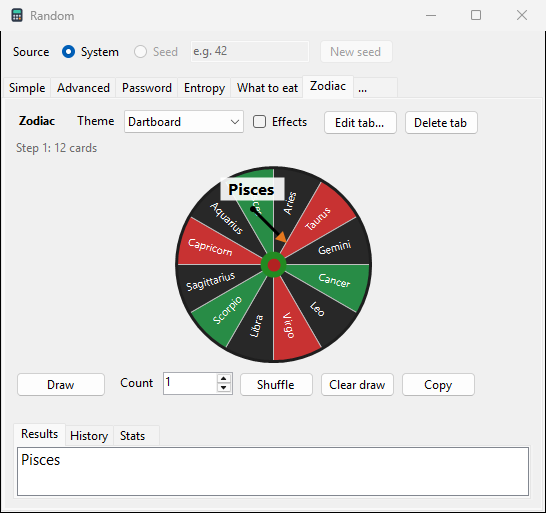
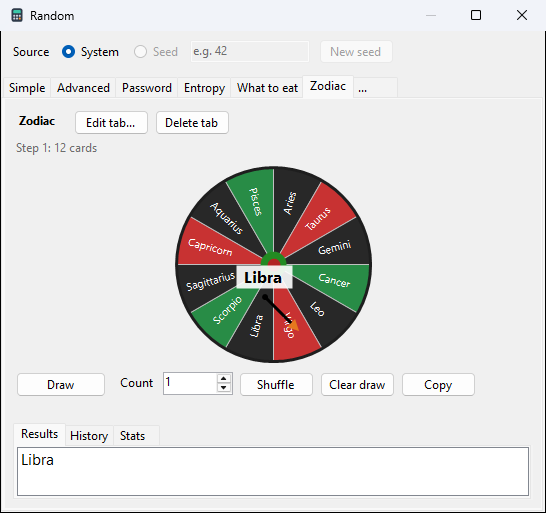
ui: draw theme and Effects in Edit tab; List effect; new tabs on Slot
Owner 2026-11-14: the theme is set once, so it moves from the tab's
top row to the Edit tab dialog. New tabs start on Slot machine, and
List gets an effect too: lines roll in Results, slowing down, before
the drawn one (a click skips). Help pictures redone without the
Minimize button. Verified: 397 UI tests pass, pictures checked.

diff --git a/ui/SoftCalc/UI/DrawPage.cs b/ui/SoftCalc/UI/DrawPage.cs
@@ -1,10 +1,10 @@
 // DrawPage.cs - A draw tab of the Random window (design/random_plan.md R7)
 //
 // Owner 2026-11-14: Draw gives a line, a card from each step; Count
-// draws several lines. Theme: List, Slot machine or Dartboard, with
-// Effects while drawing (one line at a time). Shuffle puts the drawn
-// cards back in the No repeat piles. Clear draw empties the results and
-// History, not Stats; Clear stats empties the counts. Results, History
+// draws several lines. The theme (List, Slot machine or Dartboard) and
+// Effects are set in Edit tab; effects play when drawing one line.
+// Shuffle puts the drawn cards back in the No repeat piles. Clear draw
+// empties the results; Clear history and Clear stats ask first. Results, History
 // (with the time) and Stats are on tabs below. Draws come from the
 // Source row: System, or Seed through the window's engine.
 
@@ -23,14 +23,12 @@ internal sealed class DrawPage : TabPage
 	private readonly Picker _picker;
 	private readonly Action _save;
 	private readonly Label _title = new() { AutoSize = true, Margin = new Padding(3, 6, 12, 3) };
-	private readonly ComboBox _theme = new() { DropDownStyle = ComboBoxStyle.DropDownList, Width = 120 };
 	private readonly Label _piles = new() { AutoSize = true, Dock = DockStyle.Top, ForeColor = SystemColors.GrayText, Padding = new Padding(0, 2, 0, 4) };
 	private readonly Panel _stageHolder = new() { Dock = DockStyle.Top, Height = 150 };
 	private readonly SlotStage _slot = new() { Dock = DockStyle.Fill };
 	private readonly DartStage _dart = new() { Dock = DockStyle.Fill };
 	private readonly Button _draw = new() { Text = "&Draw", AutoSize = true, MinimumSize = new Size(90, 0) };
 	private readonly NumericUpDown _count = new() { Minimum = 1, Maximum = CardDraws.MaxCount, Width = 70 };
-	private readonly CheckBox _effects = new() { Text = "E&ffects", AutoSize = true, Margin = new Padding(6, 6, 6, 3) };
 	private readonly Label _note = new() { AutoSize = true, Dock = DockStyle.Top, ForeColor = SystemColors.GrayText, Padding = new Padding(0, 4, 0, 4) };
 	private readonly TabControl _views = new() { Dock = DockStyle.Fill };
 	private readonly ListBox _results = new() { Dock = DockStyle.Fill, IntegralHeight = false, SelectionMode = SelectionMode.MultiExtended };
@@ -41,6 +39,7 @@ internal sealed class DrawPage : TabPage
 	};
 	private readonly Label _statsNote = new() { AutoSize = true, Dock = DockStyle.Bottom, ForeColor = SystemColors.GrayText, Padding = new Padding(0, 4, 0, 0) };
 	private bool _busy;
+	private bool _skip;    // a click on Results ends the List effect
 
 	public DrawSetup Setup { get; }
 
@@ -57,24 +56,15 @@ internal sealed class DrawPage : TabPage
 		_dart.Pictures = pictures;
 
 		//==================================================================
-		//  Top: name, theme, Edit tab, Delete tab
+		//  Top: name, Edit tab, Delete tab
 		//==================================================================
 		var top = new FlowLayoutPanel { AutoSize = true, Dock = DockStyle.Top, WrapContents = true };
 		_title.Font = new Font(Font, FontStyle.Bold);
-		_theme.Items.AddRange(CardDraws.ThemeNames);
-		_theme.SelectedIndex = Math.Max(0, Array.IndexOf(CardDraws.Themes, setup.Theme));
-		_theme.SelectedIndexChanged += (_, _) =>
-		{
-			Setup.Theme = CardDraws.Themes[_theme.SelectedIndex];
-			ShowTheme();
-			_save();
-		};
 		var editTab = new Button { Text = "&Edit tab...", AutoSize = true };
 		editTab.Click += (_, _) => edit(this);
 		var deleteTab = new Button { Text = "Delete ta&b", AutoSize = true };
 		deleteTab.Click += (_, _) => delete(this);
-		top.Controls.AddRange(new Control[] { _title, new Label { Text = "T&heme", AutoSize = true, Margin = new Padding(3, 6, 3, 3) },
-			_theme, _effects, editTab, deleteTab });
+		top.Controls.AddRange(new Control[] { _title, editTab, deleteTab });
 
 		//==================================================================
 		//  Draw buttons
@@ -82,9 +72,6 @@ internal sealed class DrawPage : TabPage
 		var buttons = new FlowLayoutPanel { AutoSize = true, Dock = DockStyle.Top, WrapContents = true, Margin = new Padding(0, 6, 0, 0) };
 		_count.Value = Math.Clamp(setup.Count, 1, CardDraws.MaxCount);
 		_count.ValueChanged += (_, _) => Setup.Count = (int)_count.Value;
-		_effects.Checked = setup.Effects;
-		_effects.CheckedChanged += (_, _) => Setup.Effects = _effects.Checked;
-		new ToolTip().SetToolTip(_effects, "Slot machine and Dartboard play while drawing one line; click the picture to skip");
 		_draw.Click += async (_, _) => await DrawAsync();
 		var shuffle = new Button { Text = "&Shuffle", AutoSize = true };
 		new ToolTip().SetToolTip(shuffle, "Put the drawn cards back in the No repeat piles");
@@ -101,6 +88,7 @@ internal sealed class DrawPage : TabPage
 		//  Results, History, Stats
 		//==================================================================
 		_results.Font = new Font(Font.FontFamily, 11f);
+		_results.MouseDown += (_, _) => _skip = true;
 		var resultsPage = new TabPage("Results");
 		resultsPage.Controls.Add(_results);
 		var historyPage = new TabPage("History");
@@ -214,11 +202,19 @@ internal sealed class DrawPage : TabPage
 			}
 			var (lines, error) = CardDraws.Draw(Setup, _store.Find, count, below, Language, DateTime.UtcNow);
 			_save();
+			_views.SelectedIndex = 0;
+			if (Setup.Theme == "list" && Setup.Effects && lines.Count == 1)
+			{
+				await RollAsync(live);
+			}
+			if (IsDisposed)
+			{
+				return;
+			}
 			_results.BeginUpdate();
 			_results.Items.Clear();
 			_results.Items.AddRange(lines.Select(l => (object)CardDraws.Text(l, Language)).ToArray());
 			_results.EndUpdate();
-			_views.SelectedIndex = 0;
 			FillHistory();
 			ShowPiles();
 			if (error != null)
@@ -250,6 +246,25 @@ internal sealed class DrawPage : TabPage
 			{
 				_draw.Enabled = true;
 			}
+		}
+	}
+
+	// The List effect: random lines from the piles roll in Results, slowing down, before the drawn one
+	private async Task RollAsync(List<List<PoolCard>> live)
+	{
+		if (live.Any(l => l.Count == 0))
+		{
+			return;
+		}
+		_skip = false;
+		var look = new Random();
+		double wait = 30;
+		for (var clock = System.Diagnostics.Stopwatch.StartNew(); !_skip && !IsDisposed && clock.Elapsed.TotalSeconds < 1.2; wait *= 1.12)
+		{
+			var line = live.Select(l => l[look.Next(l.Count)]).ToList();
+			_results.Items.Clear();
+			_results.Items.Add(CardDraws.Text(line, Language));
+			await Task.Delay((int)wait);
 		}
 	}
 

diff --git a/ui/SoftCalc/UI/DrawEditor.cs b/ui/SoftCalc/UI/DrawEditor.cs
@@ -3,7 +3,8 @@
 // Owner 2026-11-14: each step pools any decks (the user's own and the
 // ready-made ones) with extra cards typed for this draw only, which are
 // not saved as a deck; each card can be unticked (Days without Saturday
-// and Sunday); Use weights and No repeat are set per step. Works on a
+// and Sunday); Use weights and No repeat are set per step. The theme
+// and Effects are set here too (owner 2026-11-14), not on the tab. Works on a
 // copy of the steps: OK keeps them, Cancel drops them.
 
 using SoftCalc.Logic;
@@ -17,7 +18,9 @@ internal sealed class DrawEditor : Form
 	private readonly string _language;
 	private readonly Func<Deck?> _newDeck;
 	private readonly List<DrawStep> _steps;
-	private readonly TextBox _name = new() { Width = 260 };
+	private readonly TextBox _name = new() { Width = 220 };
+	private readonly ComboBox _theme = new() { DropDownStyle = ComboBoxStyle.DropDownList, Width = 120 };
+	private readonly CheckBox _effects = new() { Text = "E&ffects", AutoSize = true, Margin = new Padding(8, 6, 3, 3) };
 	private readonly ListBox _stepList = new() { Dock = DockStyle.Fill, IntegralHeight = false };
 	private readonly GroupBox _stepBox = new() { Dock = DockStyle.Fill, Padding = new Padding(6) };
 	private readonly ListBox _decks = new() { Width = 260, Height = 64, IntegralHeight = false };
@@ -37,8 +40,11 @@ internal sealed class DrawEditor : Form
 
 	public string ResultName => _name.Text.Trim();
 	public List<DrawStep> ResultSteps => _steps;
+	public string ResultTheme => CardDraws.Themes[Math.Max(0, _theme.SelectedIndex)];
+	public bool ResultEffects => _effects.Checked;
 
-	public DrawEditor(string title, string name, IEnumerable<DrawStep> steps, CardStore store, string language, Func<Deck?> newDeck)
+	public DrawEditor(string title, string name, IEnumerable<DrawStep> steps, CardStore store, string language, Func<Deck?> newDeck,
+		string theme, bool effects)
 	{
 		_store = store;
 		_language = language;
@@ -65,6 +71,13 @@ internal sealed class DrawEditor : Form
 		nameRow.Controls.Add(new Label { Text = "&Name", AutoSize = true, Margin = new Padding(3, 7, 6, 3) });
 		nameRow.Controls.Add(_name);
 		_name.Text = name;
+		nameRow.Controls.Add(new Label { Text = "T&heme", AutoSize = true, Margin = new Padding(14, 7, 6, 3) });
+		_theme.Items.AddRange(CardDraws.ThemeNames);
+		_theme.SelectedIndex = Math.Max(0, Array.IndexOf(CardDraws.Themes, theme));
+		nameRow.Controls.Add(_theme);
+		_effects.Checked = effects;
+		nameRow.Controls.Add(_effects);
+		new ToolTip().SetToolTip(_effects, "Play the theme while drawing one line; a click skips it");
 
 		var stepButtons = new FlowLayoutPanel { AutoSize = true, Dock = DockStyle.Bottom, WrapContents = true };
 		var addStep = new Button { Text = "Add &step", AutoSize = true };

diff --git a/ui/SoftCalc/UI/RandomWindow.Draws.cs b/ui/SoftCalc/UI/RandomWindow.Draws.cs
@@ -40,13 +40,19 @@ internal sealed partial class RandomWindow
 			Tell(_cardsNote, $"At most {CardStore.MaxDraws} draw tabs.", error: true);
 			return;
 		}
-		using var editor = new DrawEditor("New draw", DefaultDrawName, Array.Empty<DrawStep>(), _cards, Language, NewDeck);
+		var fresh = new DrawSetup();
+		using var editor = new DrawEditor("New draw", DefaultDrawName, Array.Empty<DrawStep>(), _cards, Language, NewDeck,
+			fresh.Theme, fresh.Effects);
 		if (editor.ShowDialog(this) != DialogResult.OK)
 		{
 			FillDecks();
 			return;
 		}
-		var setup = new DrawSetup { Id = CardStore.NewId(), Name = editor.ResultName, Steps = editor.ResultSteps };
+		var setup = new DrawSetup
+		{
+			Id = CardStore.NewId(), Name = editor.ResultName, Steps = editor.ResultSteps, Theme = editor.ResultTheme,
+			Effects = editor.ResultEffects,
+		};
 		_cards.File.Draws.Add(setup);
 		SaveCards();
 		FillDecks();
@@ -57,11 +63,14 @@ internal sealed partial class RandomWindow
 
 	private void EditDraw(DrawPage page)
 	{
-		using var editor = new DrawEditor("Edit tab", page.Setup.Name, page.Setup.Steps, _cards, Language, NewDeck);
+		using var editor = new DrawEditor("Edit tab", page.Setup.Name, page.Setup.Steps, _cards, Language, NewDeck,
+			page.Setup.Theme, page.Setup.Effects);
 		if (editor.ShowDialog(this) == DialogResult.OK)
 		{
 			page.Setup.Name = editor.ResultName;
 			page.Setup.Steps = editor.ResultSteps;
+			page.Setup.Theme = editor.ResultTheme;
+			page.Setup.Effects = editor.ResultEffects;
 			SaveCards();
 			page.Reload(changed: true);
 		}

diff --git a/ui/SoftCalc/Logic/CardDraws.cs b/ui/SoftCalc/Logic/CardDraws.cs
@@ -33,7 +33,7 @@ internal sealed class DrawSetup
 {
 	public string Id { get; set; } = "";
 	public string Name { get; set; } = "";
-	public string Theme { get; set; } = "list";    // list, slot, dart
+	public string Theme { get; set; } = "slot";    // list, slot, dart; new tabs start on slot (owner 2026-11-14)
 	public int Count { get; set; } = 1;
 	public bool Effects { get; set; } = true;
 	public List<DrawStep> Steps { get; set; } = new();

diff --git a/help/17-random.md b/help/17-random.md
@@ -291,11 +291,13 @@ its steps:
 
 ![A draw tab with the slot machine](img/random-draw-slot.light.png)
 
-- **Draw** draws **Count** lines. **Theme**: List, **Slot machine** (a
-  reel for each step) or **Dartboard** (a board for each step, each
-  card's part as big as its chance). With **Effects** the reels roll
-  or the dart flies while one line is drawn; the cards are drawn
-  first, so the effect never changes them, and a click skips it.
+- **Draw** draws **Count** lines. The **Theme** is set in **Edit
+  tab...**: **List**, **Slot machine** (a reel for each step; new tabs
+  start here) or **Dartboard** (a board for each step, each card's part
+  as big as its chance). With **Effects** the names roll in Results,
+  the reels roll or the dart flies while one line is drawn; the cards
+  are drawn first, so the effect never changes them, and a click skips
+  it.
 - **Shuffle** puts the drawn cards back in the No repeat piles. The
   line under the name shows each step's cards and how many are left.
 - **Results** shows the last Draw, **History** every line with its

diff --git a/design/random_plan.md b/design/random_plan.md
@@ -172,7 +172,9 @@ come later. Window size and place are remembered too.
   come later, owner).
 - No repeat works like a pile (owner): a drawn card stays out until
   Shuffle, also across closing the window.
-- Theme: List, Slot machine (a reel per step, stopping one by one),
+- Theme (set in Edit tab, owner 2026-11-14; new tabs start on Slot
+  machine): List (lines roll in Results, slowing down), Slot machine
+  (a reel per step, stopping one by one),
   Dartboard (a board per step, sectors sized by chance, a dart lands in
   the drawn card's sector). Effects play only for one line; the cards
   are drawn first and the effect plays towards them (System.Random for
